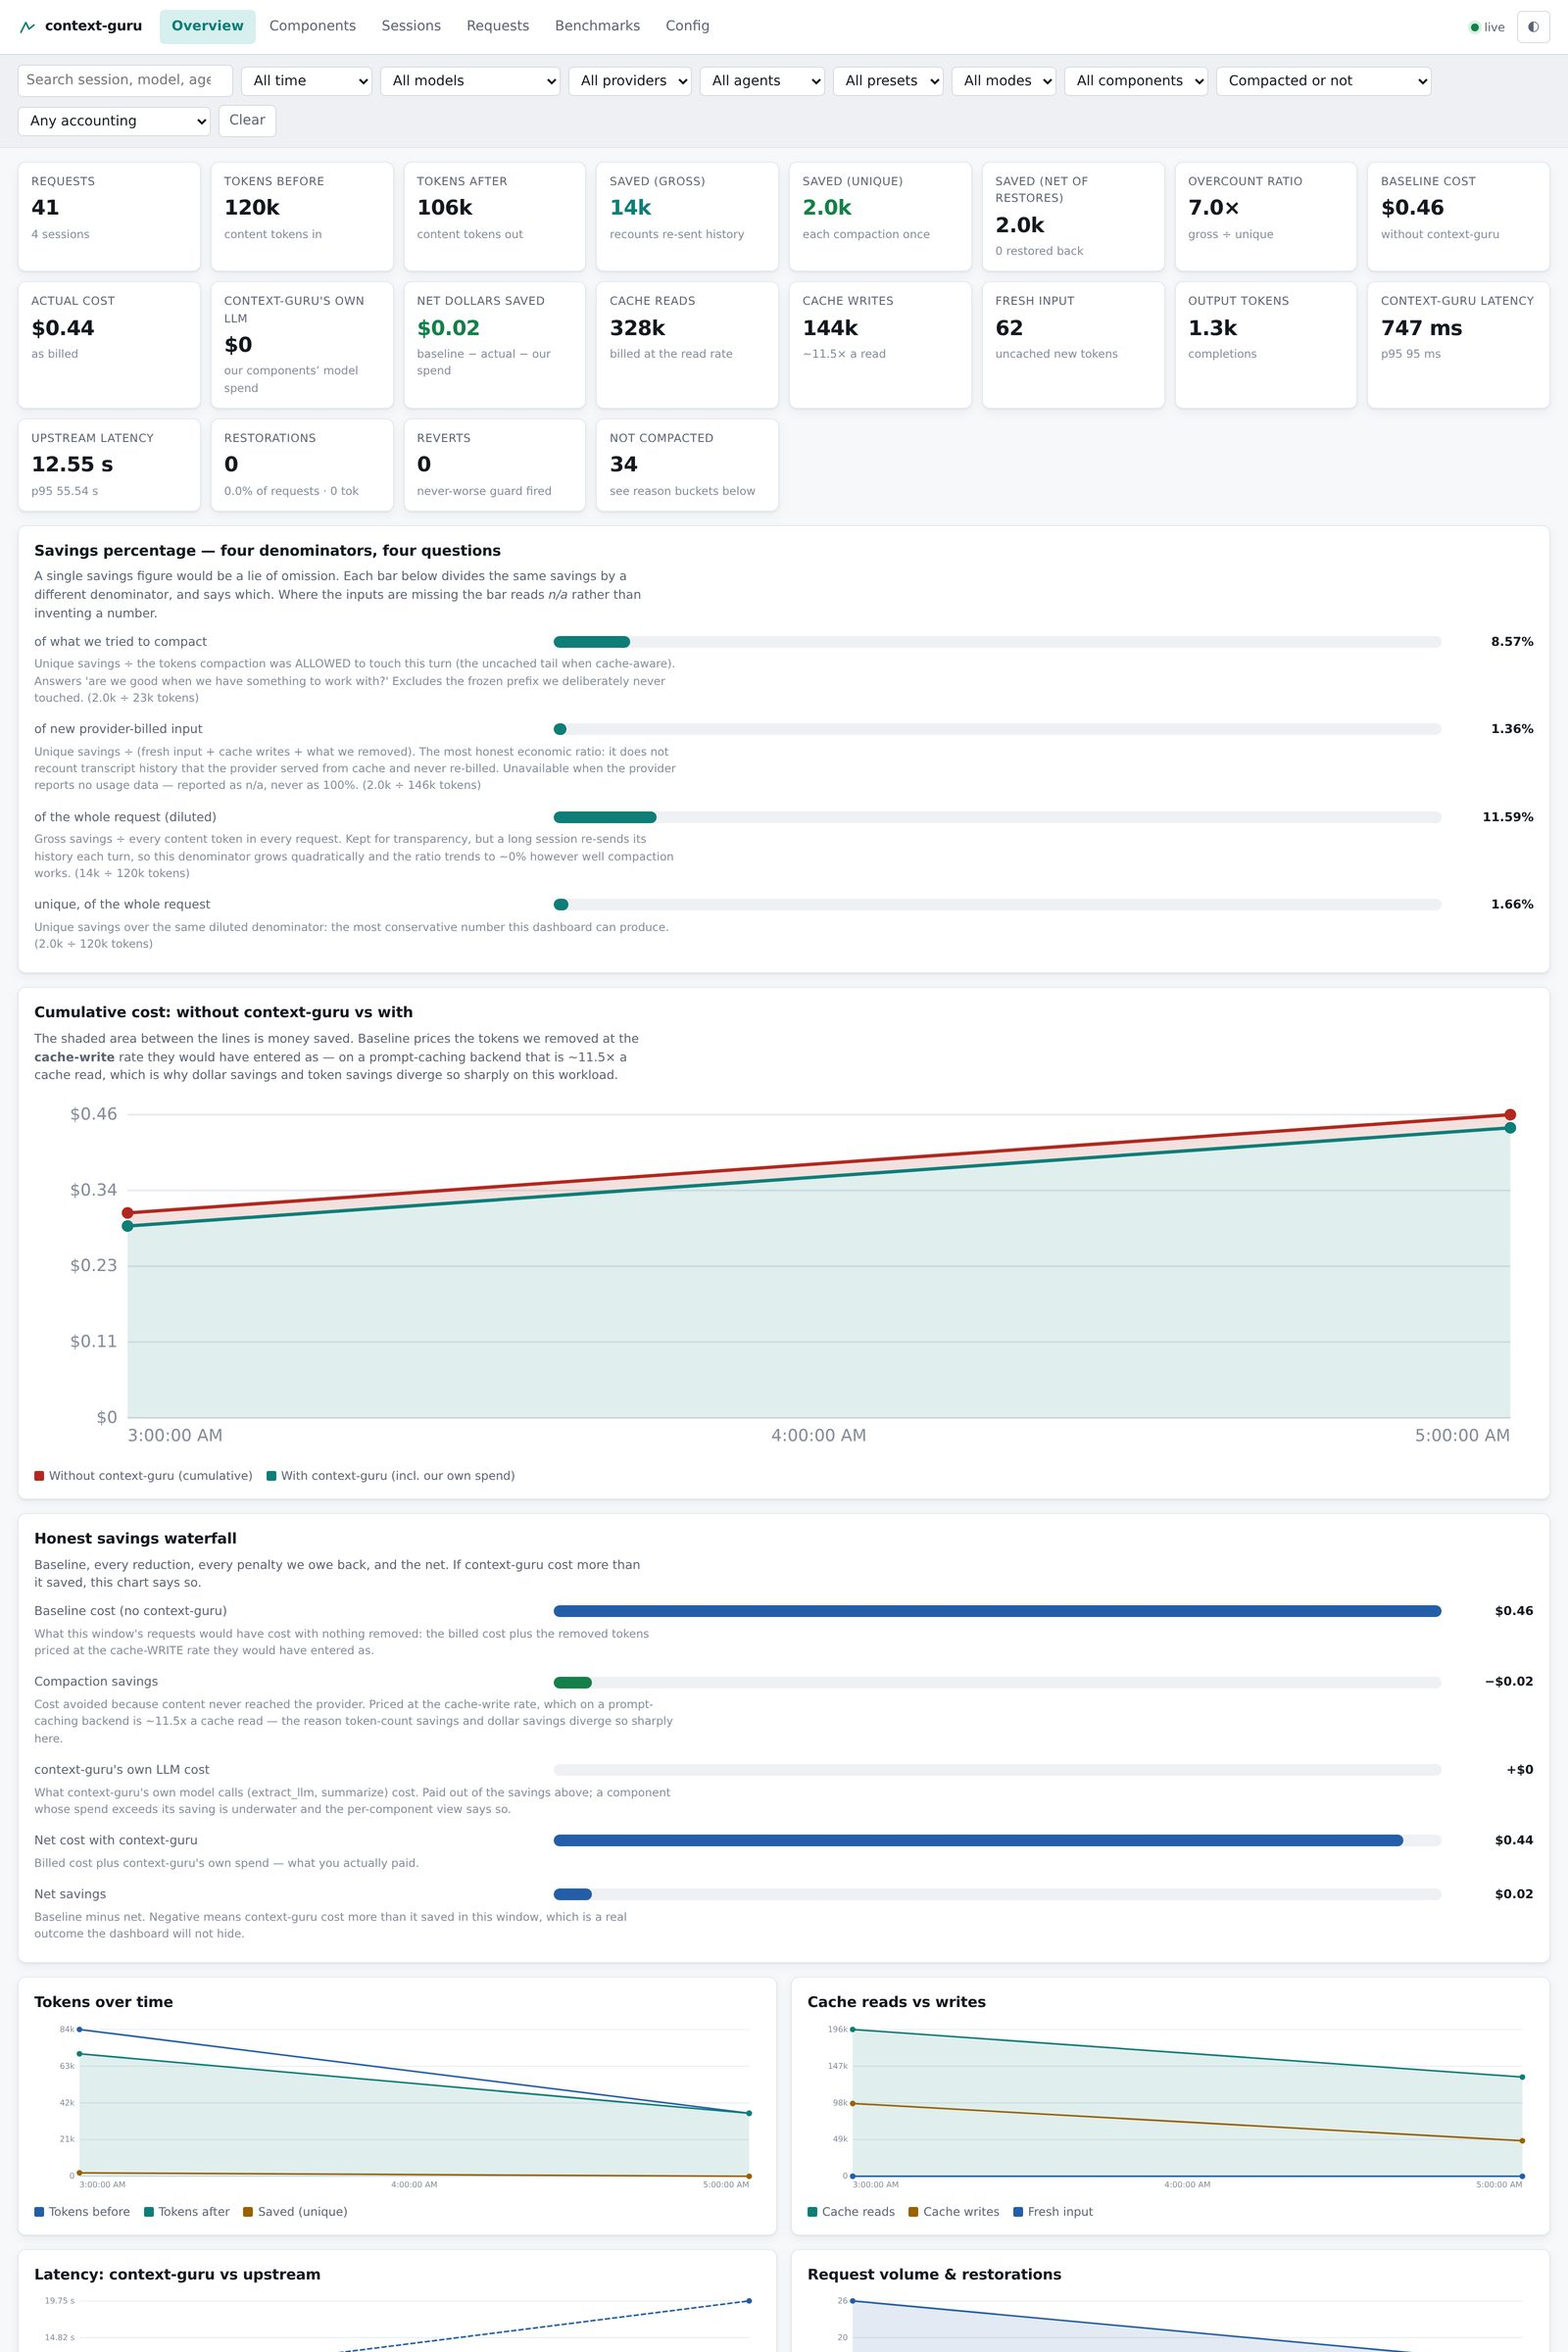
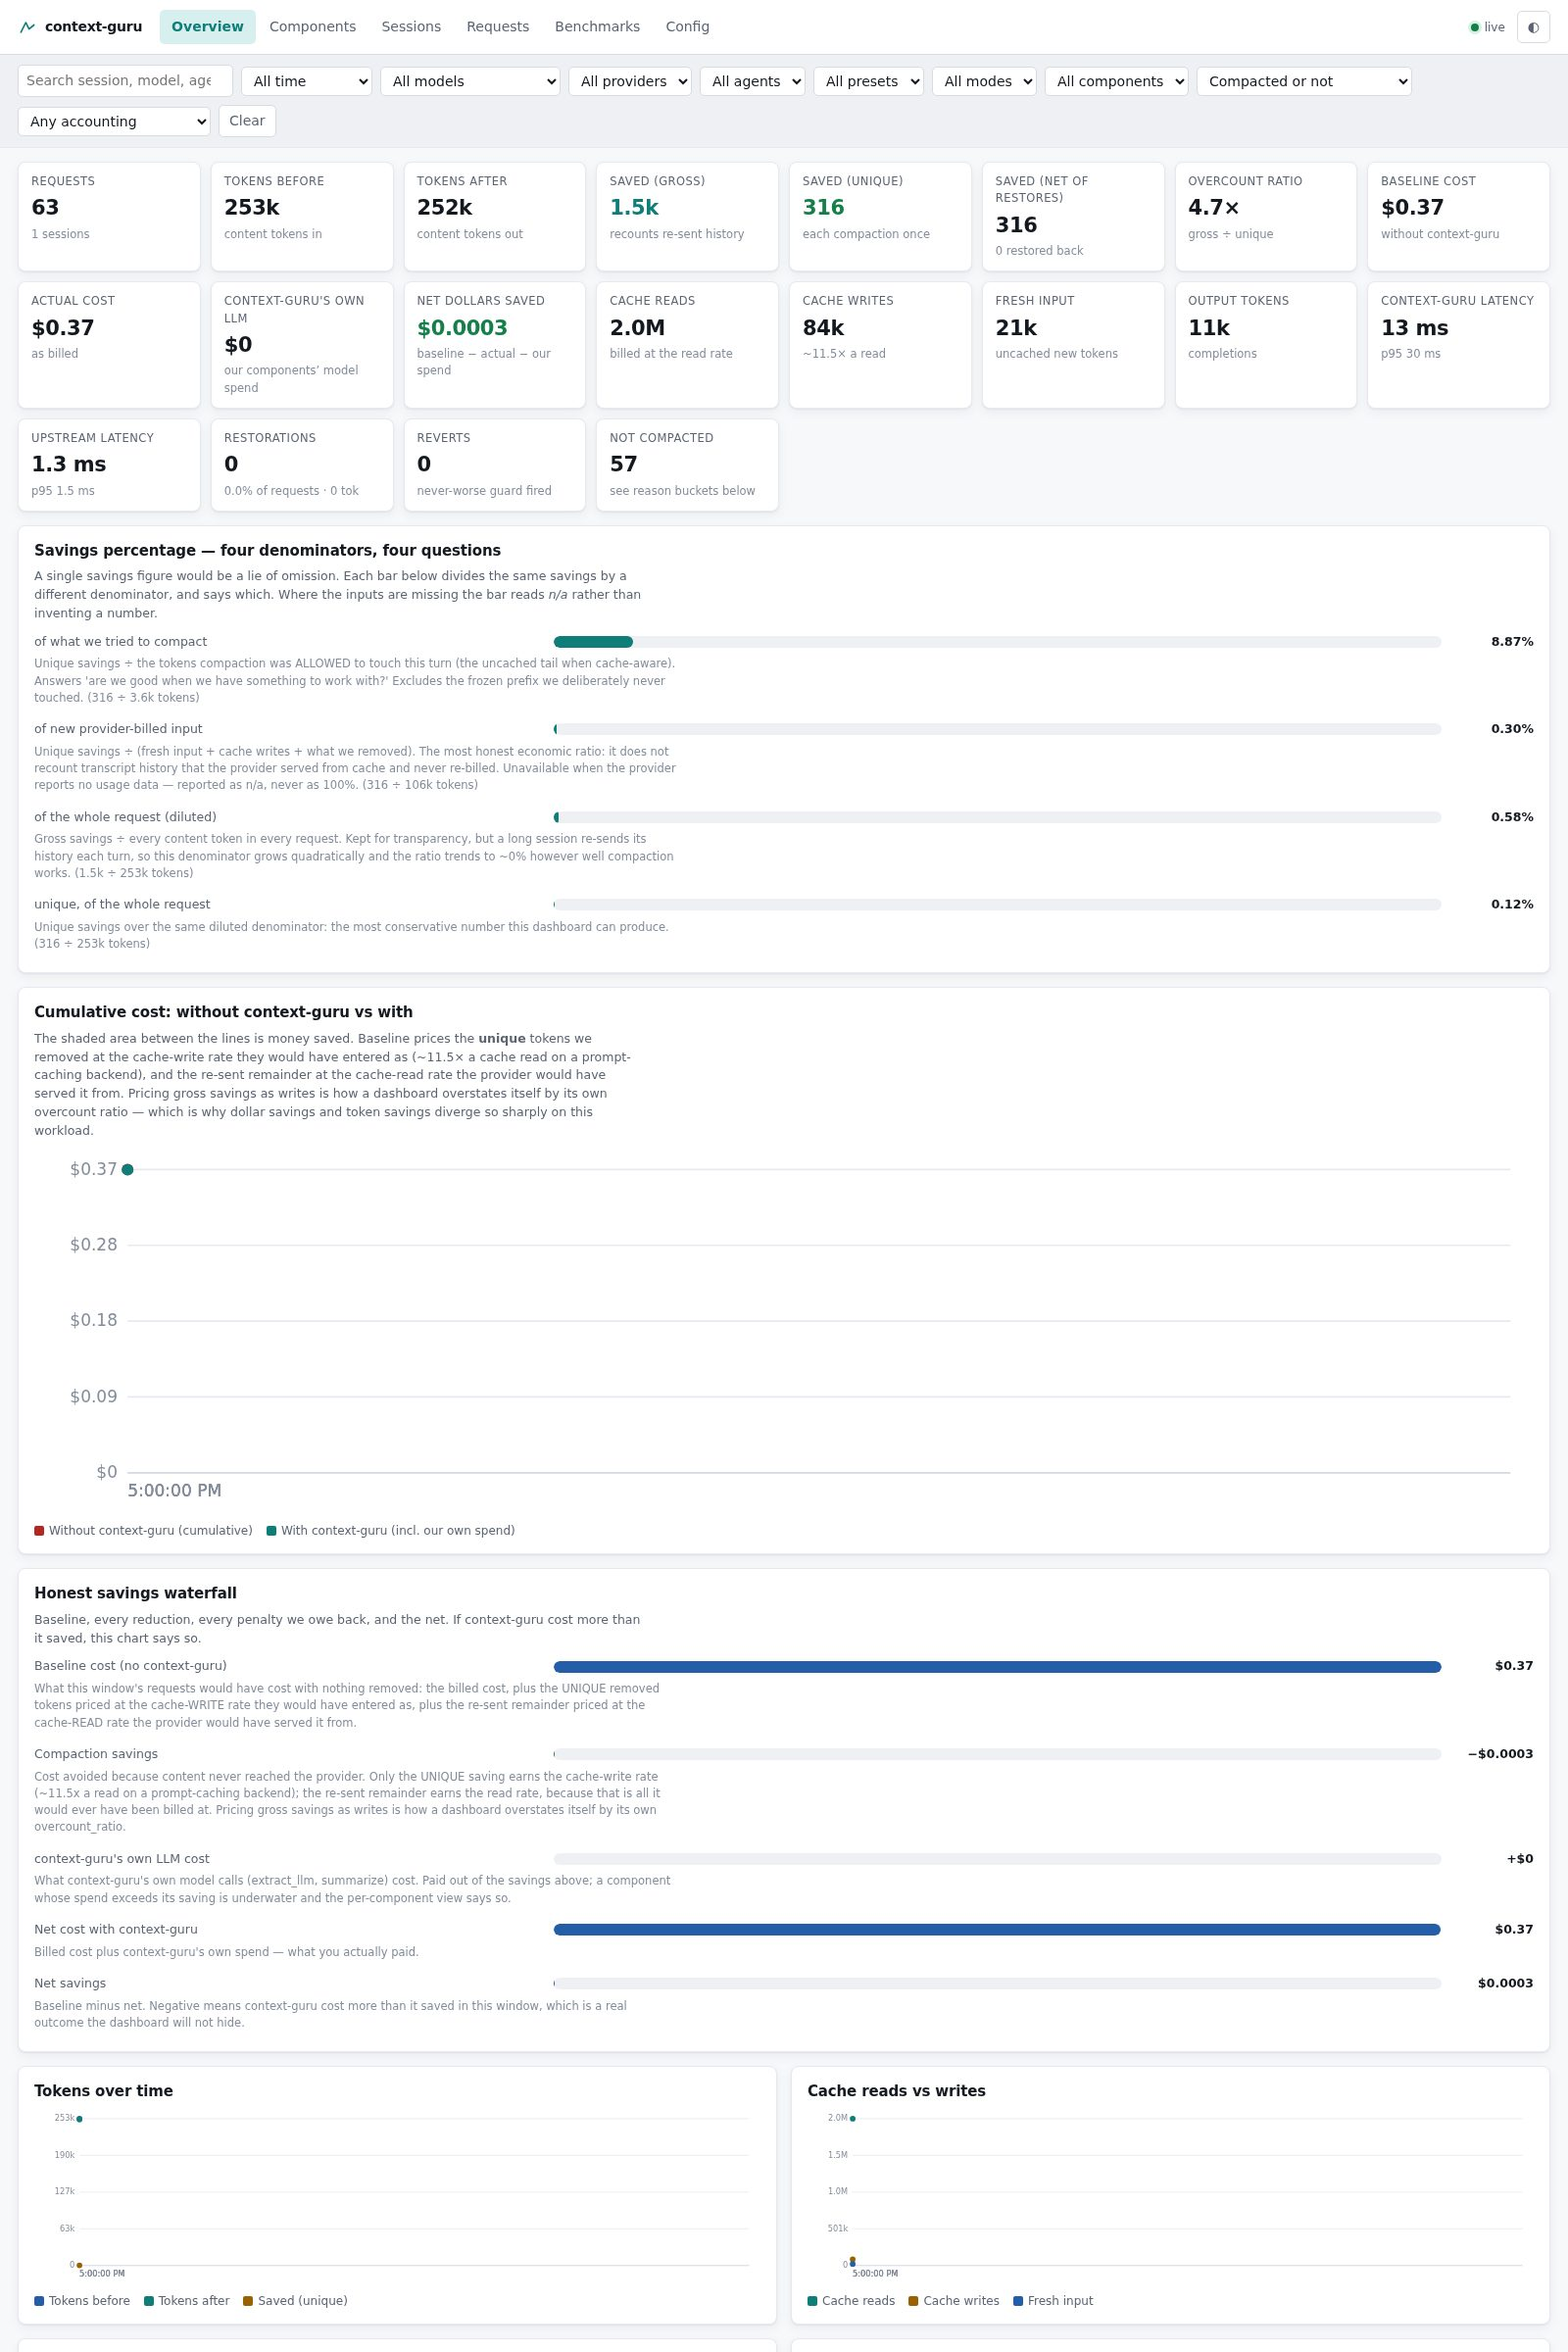
docs(dash): correct the baseline-pricing copy and re-shoot the overview
The cumulative-cost chart's caption and the dashboard guide both still stated the
rule the pricing fix removed — "baseline prices the tokens we removed at the
cache-write rate" — which is the inflated formula described as if it were the
behaviour. A dashboard whose caption contradicts its own number is worse than one
with no caption, so both now describe the actual split: unique savings at the
write rate, the re-sent remainder at the read rate.

The overview screenshot is re-shot against a live proxy on port 4193 replaying
the same 63 captured SWE-bench requests, because the committed one showed the
inflated dollar figures. Verified before committing: no credential-shaped strings
in the JPEG bytes, no EXIF/XMP/GPS.

UI re-verified against that build with Playwright: 0 console errors, 0 page
errors, 0 off-origin requests, all six views render, request detail and drawer
work, XSS flags still false with one script tag (the app's own), and no
horizontal overflow at 390px. The observe banner is hidden in sync mode and, on a
proxy started with --mode observe, renders "You are currently in OBSERVE mode…"
with the off-path queue's processed/pending/dropped counters.

Assisted-By: Claude Opus 5

diff --git a/dash/ui/index.html b/dash/ui/index.html
@@ -83,10 +83,12 @@
 
   <div class="panel">
     <h2>Cumulative cost: without context-guru vs with</h2>
-    <p class="note">The shaded area between the lines is money saved. Baseline prices the tokens
-      we removed at the <strong>cache-write</strong> rate they would have entered as — on a
-      prompt-caching backend that is ~11.5&times; a cache read, which is why dollar savings and
-      token savings diverge so sharply on this workload.</p>
+    <p class="note">The shaded area between the lines is money saved. Baseline prices the
+      <strong>unique</strong> tokens we removed at the cache-write rate they would have entered
+      as (~11.5&times; a cache read on a prompt-caching backend), and the re-sent remainder at
+      the cache-read rate the provider would have served it from. Pricing gross savings as
+      writes is how a dashboard overstates itself by its own overcount ratio — which is why
+      dollar savings and token savings diverge so sharply on this workload.</p>
     <div id="chart-cost" class="chart" data-testid="chart-cost"></div>
   </div>
 

diff --git a/docs/dashboard.md b/docs/dashboard.md
@@ -71,11 +71,22 @@ removed is unfalsifiable:
 
 ![Cost chart with a tooltip](img/dashboard/02-savings-cost-graph-tooltip.jpg)
 
-The shaded band between the lines is money saved. Baseline prices the tokens we removed
-at the **cache-write** rate they would have entered as — on a prompt-caching backend
-that is ~11.5× a cache read, which is the whole reason token savings and dollar savings
-diverge so sharply on this workload (see
+The shaded band between the lines is money saved. Baseline prices the **unique** tokens we
+removed at the **cache-write** rate they would have entered as — on a prompt-caching
+backend that is ~11.5× a cache read — and the re-sent remainder at the **cache-read** rate
+the provider would have served it from. That split is the whole reason token savings and
+dollar savings diverge so sharply on this workload (see
 [the SWE-bench comparison](results/comparison.md)).
+
+Both halves matter, and getting either wrong inflates the headline. `saved_tokens` is
+gross: the agent re-sends its transcript every turn, so one compaction is re-counted once
+per remaining turn — a 4.7× overcount on the 63-request replay above, and 13.1× on a
+longer one. Only `saved_unique` is content that genuinely never reached the provider, and
+only that part can be priced as a cache write; the re-sent remainder would have come from
+the provider's cache at 1/11.5 the rate. The dashboard shows the correction factor as
+`overcount_ratio` right beside the dollar figure — an earlier version of this page
+described pricing gross savings as writes, which overstated net savings by ~9× on the
+same data.
 
 Beneath it, the **honest savings waterfall**: baseline → compaction savings →
 context-guru's own LLM cost → net cost → net savings. If context-guru cost more than it
